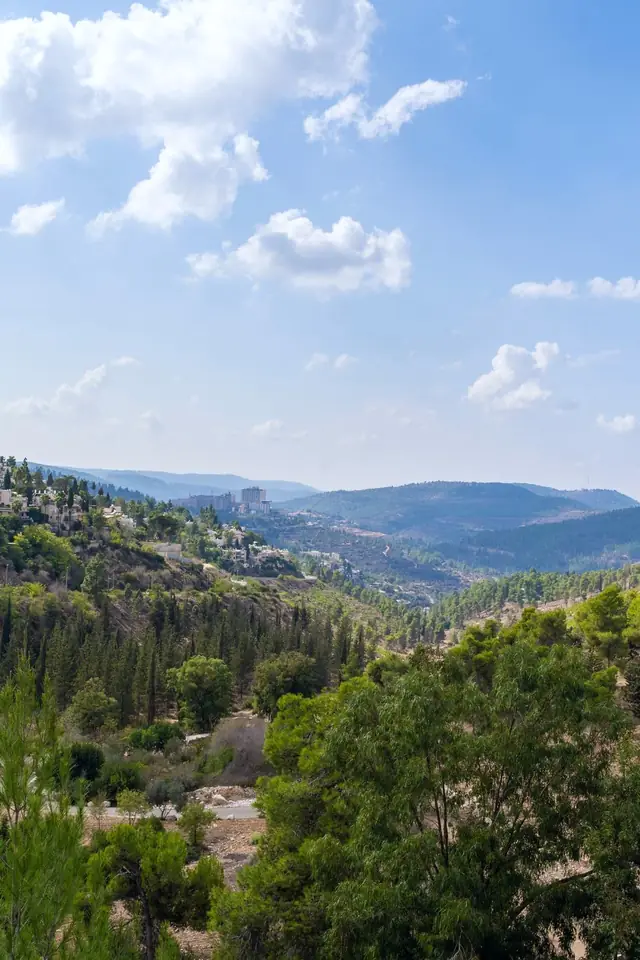
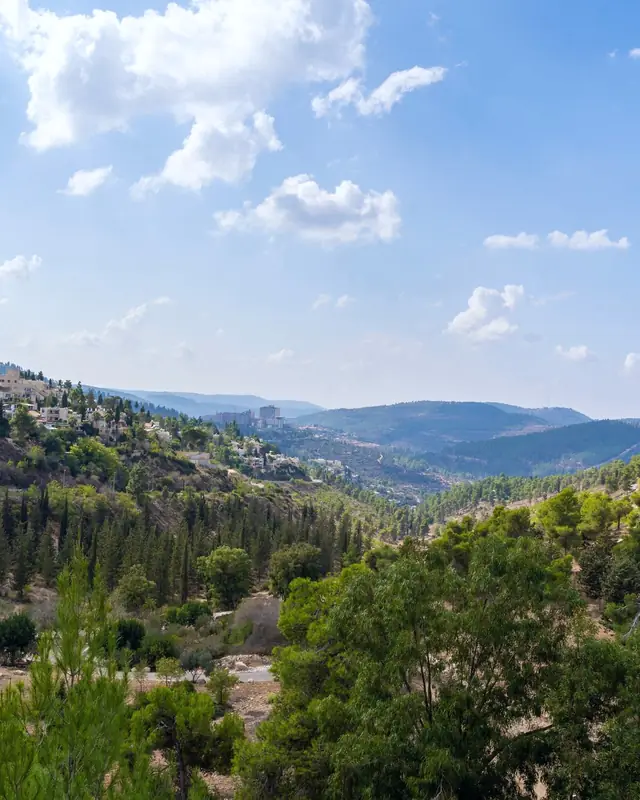
Onboarding Y1 ship: 4:5 crops filling the band above the sheet, step photo mapping, tour counts from the Today board

diff --git a/src/components/tour/TourHost.jsx b/src/components/tour/TourHost.jsx
@@ -93,8 +93,7 @@ export default function TourHost({ user }) {
     let timer = null;
     let off = () => {};
     // Straight from the onboarding finish ("פתחו את atlas"): the finish already said welcome, so Today gets its
-    // own moment first. The tour waits ~3s, skips its welcome card, and never lands on a tap in progress
-    // (it waits for 2.5s without input, and if the owner keeps going for 15s it stays in Settings for now).
+    // own moment first: the tour skips its welcome card and opens ~3s after the Today board is on screen.
     let arrived = 0;
     try { arrived = Number(sessionStorage.getItem(ARRIVE_KEY)) || 0; sessionStorage.removeItem(ARRIVE_KEY); } catch { /* private mode */ }
     const fromOnboarding = arrived > 0 && Date.now() - arrived < 60000;
@@ -112,13 +111,25 @@ export default function TourHost({ user }) {
         setActive(true);
       };
       if (!fromOnboarding) { timer = setTimeout(open, 700); return; }
+      // Count from when their Today is on screen (it loads its data first), not from when the app shell mounted.
+      // Any input pushes the tour back to 2.5s after the last one; after 20s of use it waits for Settings instead.
       const t0 = Date.now();
+      let shown = 0; // when the board appeared
       const wait = (ms) => { clearTimeout(timer); timer = setTimeout(open, ms); };
-      const poke = () => { if (Date.now() - t0 > 15000) { clearTimeout(timer); off(); return; } wait(2500); };
+      const poke = () => {
+        if (!shown) return;
+        if (Date.now() - shown > 20000) { clearTimeout(timer); off(); return; }
+        wait(2500);
+      };
       const evs = ['pointerdown', 'keydown', 'wheel', 'touchmove'];
       evs.forEach((e) => window.addEventListener(e, poke, { passive: true }));
       off = () => evs.forEach((e) => window.removeEventListener(e, poke));
-      wait(reduced ? 1500 : 3200);
+      const board = () => {
+        if (!alive) return;
+        if (visibleEl('today-board') || Date.now() - t0 > 8000) { shown = Date.now(); wait(reduced ? 1200 : 2800); return; }
+        timer = setTimeout(board, 150);
+      };
+      board();
     });
     return () => { alive = false; clearTimeout(timer); off(); };
   }, [user?.id]);

diff --git a/src/components/onboarding/y/y1.css b/src/components/onboarding/y/y1.css
@@ -165,12 +165,13 @@
 @media (prefers-reduced-motion: reduce) { .oy1-chip i, .oy1-skel { animation: none !important; } }
 
 /* ── ship polish (03.11): phone gets Y2's per-step photo behind the card stack ── */
-.oy1-pbg { position: absolute; inset: 0; display: block; overflow: hidden; }
-.oy1-pbg img { width: 100%; height: 100%; object-fit: cover; object-position: center 45%; transform: scale(1.1); animation: oy1-push 14s linear forwards; will-change: transform; }
+.oy1-pbg { position: absolute; inset: 0 0 auto; height: 440px; display: block; overflow: hidden; }
+.oy1-pbg img { width: 100%; height: 100%; object-fit: cover; object-position: center 55%; transform: scale(1.1); animation: oy1-push 14s linear forwards; will-change: transform; }
 @keyframes oy1-push { from { transform: scale(1.12); } to { transform: scale(1.02); } }
 .oy1-bg::after { z-index: 1; }
 @media (max-width: 1023px) {
-  .oy1-bg::after { background: linear-gradient(180deg, rgba(27,38,86,.42) 0%, rgba(27,38,86,.08) 26%, rgba(27,38,86,.04) 40%, rgba(27,38,86,.3) 100%); }
+  .oy1-bg { background: #F7F8FB; }
+  .oy1-bg::after { height: 440px; bottom: auto; background: linear-gradient(180deg, rgba(27,38,86,.42) 0%, rgba(27,38,86,.08) 26%, rgba(27,38,86,.04) 40%, rgba(27,38,86,.3) 100%); }
   /* the live card becomes a window onto the photo: no fill of its own, a hairline frame, glass stats */
   .oy1-card { background: none; box-shadow: inset 0 0 0 1px rgba(255,255,255,.42), 0 30px 50px -36px rgba(27,38,86,.7); }
   .oy1-card-shade { background: linear-gradient(180deg, rgba(27,38,86,.42), rgba(27,38,86,0) 42%, rgba(27,38,86,0) 58%, rgba(27,38,86,.4)); }

diff --git a/src/components/onboarding/y/StepPhoto.jsx b/src/components/onboarding/y/StepPhoto.jsx
@@ -2,18 +2,18 @@
  * Onboarding Y1, phone: the full-bleed zimmer photo behind the card stack (from Y2). It changes with every step,
  * crossfades, and pushes in slowly. From the name step on it is "your place" (a photo for the kind they picked).
  * Sources are ≥2000px licensed photos (credits in brand/book/README.md), served as responsive webp:
- * a 2:3 portrait crop at 640/1000w for phones, a 1600w landscape for tablets. Desktop never loads them.
+ * a 4:5 crop at 640/1000w for phones (it fills the band above the sheet), a 1600w landscape for tablets. Desktop never loads them.
  */
 import React, { useEffect, useState } from 'react';
 import { AnimatePresence, motion } from 'framer-motion';
 
 export const ARRIVE_KEY = 'atlas.onb.arrive'; // the finish → /today: TourHost lets Today land before the tour
 
-const BG = { hello: 'valley', kind: 'infinity', units: 'mountain', channels: 'lake', times: 'fields', whatsapp: 'villa' };
-const KIND_BG = { zimmer: 'aframe', villa: 'villa', complex: 'infinity', zimmer_complex: 'mountain' };
+const BG = { hello: 'valley', kind: 'lake', units: 'mountain', channels: 'villa', times: 'infinity', whatsapp: 'aframe' };
+const KIND_BG = { zimmer: 'aframe', villa: 'villa', complex: 'infinity', zimmer_complex: 'mountain' }; // others: aframe
 export function bgFor(q, phase, kind) {
   if (!q) return null;
-  if (phase !== 'ask' || q === 'name') return KIND_BG[kind] || 'lake';
+  if (phase !== 'ask' || q === 'name') return KIND_BG[kind] || 'aframe';
   return BG[q] || 'valley';
 }
 const SRCSET = (id) => `/onboarding/bg/${id}-p640.webp 640w, /onboarding/bg/${id}-p1000.webp 1000w`;
